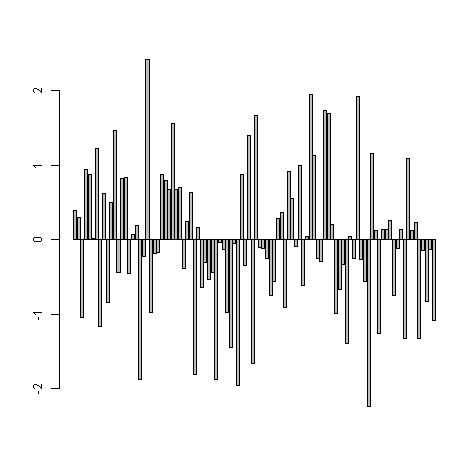
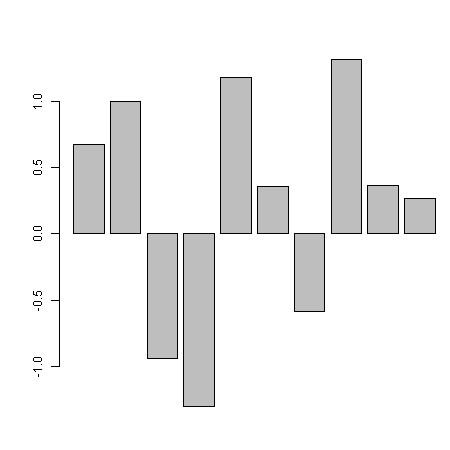
Preparing get Graph actions

diff --git a/SemanticAnalytics/ProjectSources/R/Dominion/Rinvoker.java b/SemanticAnalytics/ProjectSources/R/Dominion/Rinvoker.java
@@ -49,12 +49,14 @@ public class Rinvoker {
 	//TODO give more options of return type (png, bmp, jpg) etc
 	/*
 	 * Options: 
-	 *  - Format
+	 *  - Format <- not viable
 	 *  - barplot, point plot, etc.
+	 *  - add some options in the chart (date, X/Y axis, etc)
 	 */
-	public Image getPlot(String data){
+	public File getPlot(String data){
 		Image img = null;
-		BufferedImage bi = null; 
+		BufferedImage bi = null;
+		File outputfile = null;
 		REXP x; 
 		try {
 			x= c.parseAndEval("try(jpeg('test.jpg',quality=90))");
@@ -63,13 +65,13 @@ public class Rinvoker {
 			img = Toolkit.getDefaultToolkit().createImage(x.asBytes());
 			
 			bi = toBufferedImage(img); 
-			File outputfile = new File("./tempFiles/temp.jpg");
+			outputfile = new File("./tempFiles/temp.jpg");
 			ImageIO.write(bi, "jpg", outputfile);
 
 		} catch (REngineException | REXPMismatchException | IOException e) {
 			e.printStackTrace();
 		} 
-		return img; 
+		return outputfile; 
 	}
 	private static BufferedImage toBufferedImage(Image src) {
 		// TODO calculates 

diff --git a/SemanticAnalytics/ProjectSources/Dominion/Testing.java b/SemanticAnalytics/ProjectSources/Dominion/Testing.java
@@ -18,7 +18,7 @@ public class Testing {
 	public static void main(String[] args) {
 		Rinvoker r = new Rinvoker(); 
 		
-		String data = "a<-rnorm(100); barplot(a); dev.off()";
+		String data = "a<-rnorm(10); barplot(a); dev.off()";
 		
 		//r.getPlot("data(iris); attach(iris); plot(Sepal.Length, Petal.Length, col=unclass(Species)); dev.off()");
 		r.getPlot(data);

diff --git a/SemanticAnalytics/src/R/actions/Calculations.java b/SemanticAnalytics/src/R/actions/Calculations.java
@@ -39,4 +39,7 @@ public class Calculations extends ActionSupport {
 	public void setResult(double result) {
 		this.result = result;
 	}
+//	public void graph(){
+//		
+//	}
 }
